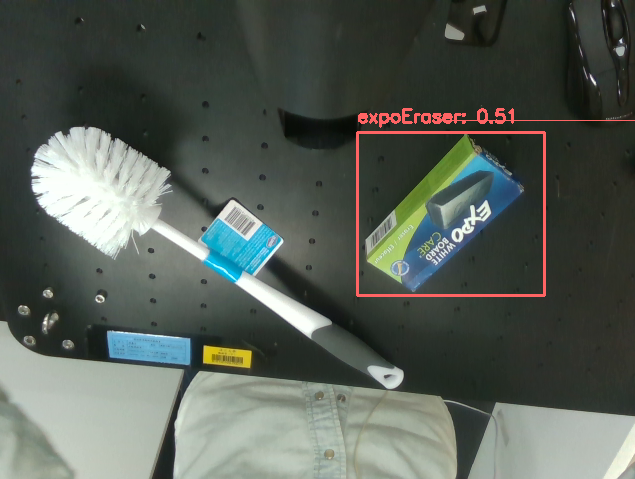
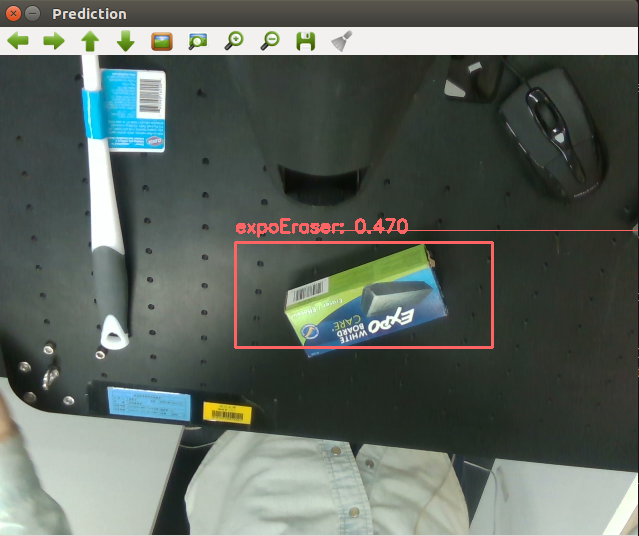
Update ReadMe

diff --git a/vision/darkflow_detect/README.md b/vision/darkflow_detect/README.md
@@ -37,11 +37,11 @@
     * the class name define in the label.txt
 
     ```bash
-    rosservice call /detect "object_name: 'crayolaCrayons24'"
+    rosservice call /detect "object_name: 'expoEraser'"
 
     # response
-    bound_box: [87, 274, 327, 479] # xmin, ymin, xmax, ymax
-    confidence: 0.640706419945
+    bound_box: [237, 187, 494, 292] # xmin, ymin, xmax, ymax
+    confidence: 0.470051288605
     result: True
     ```
 
